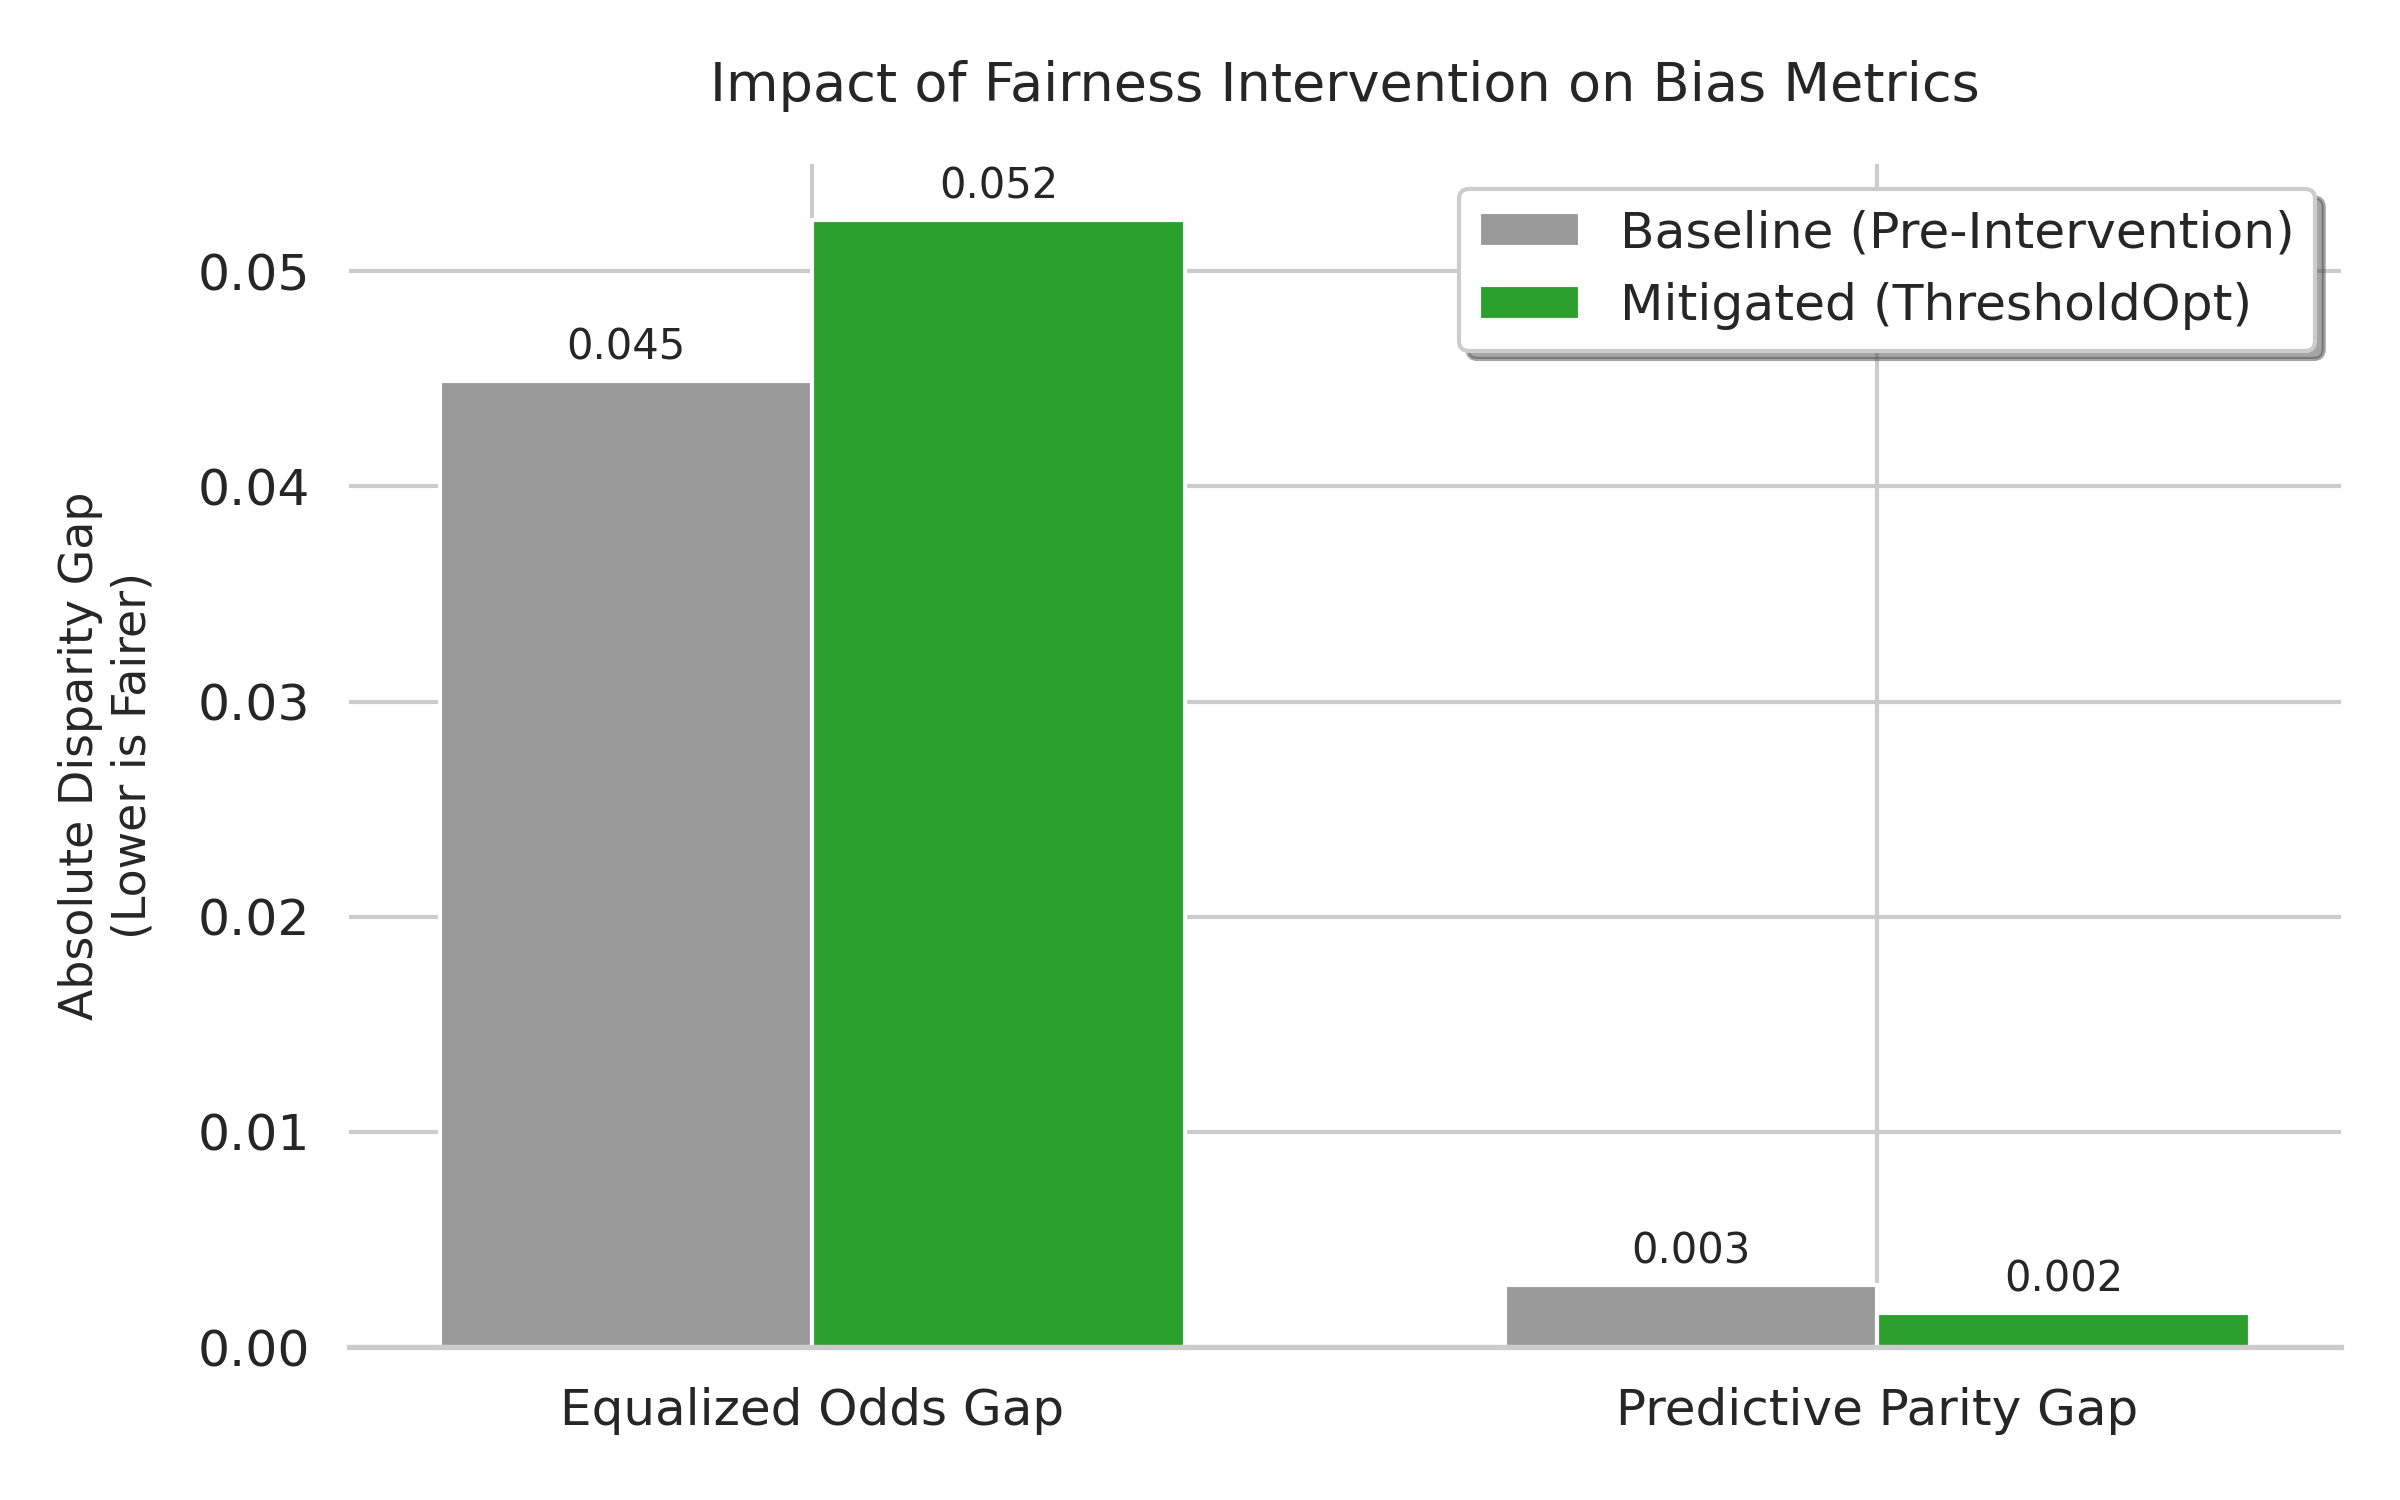
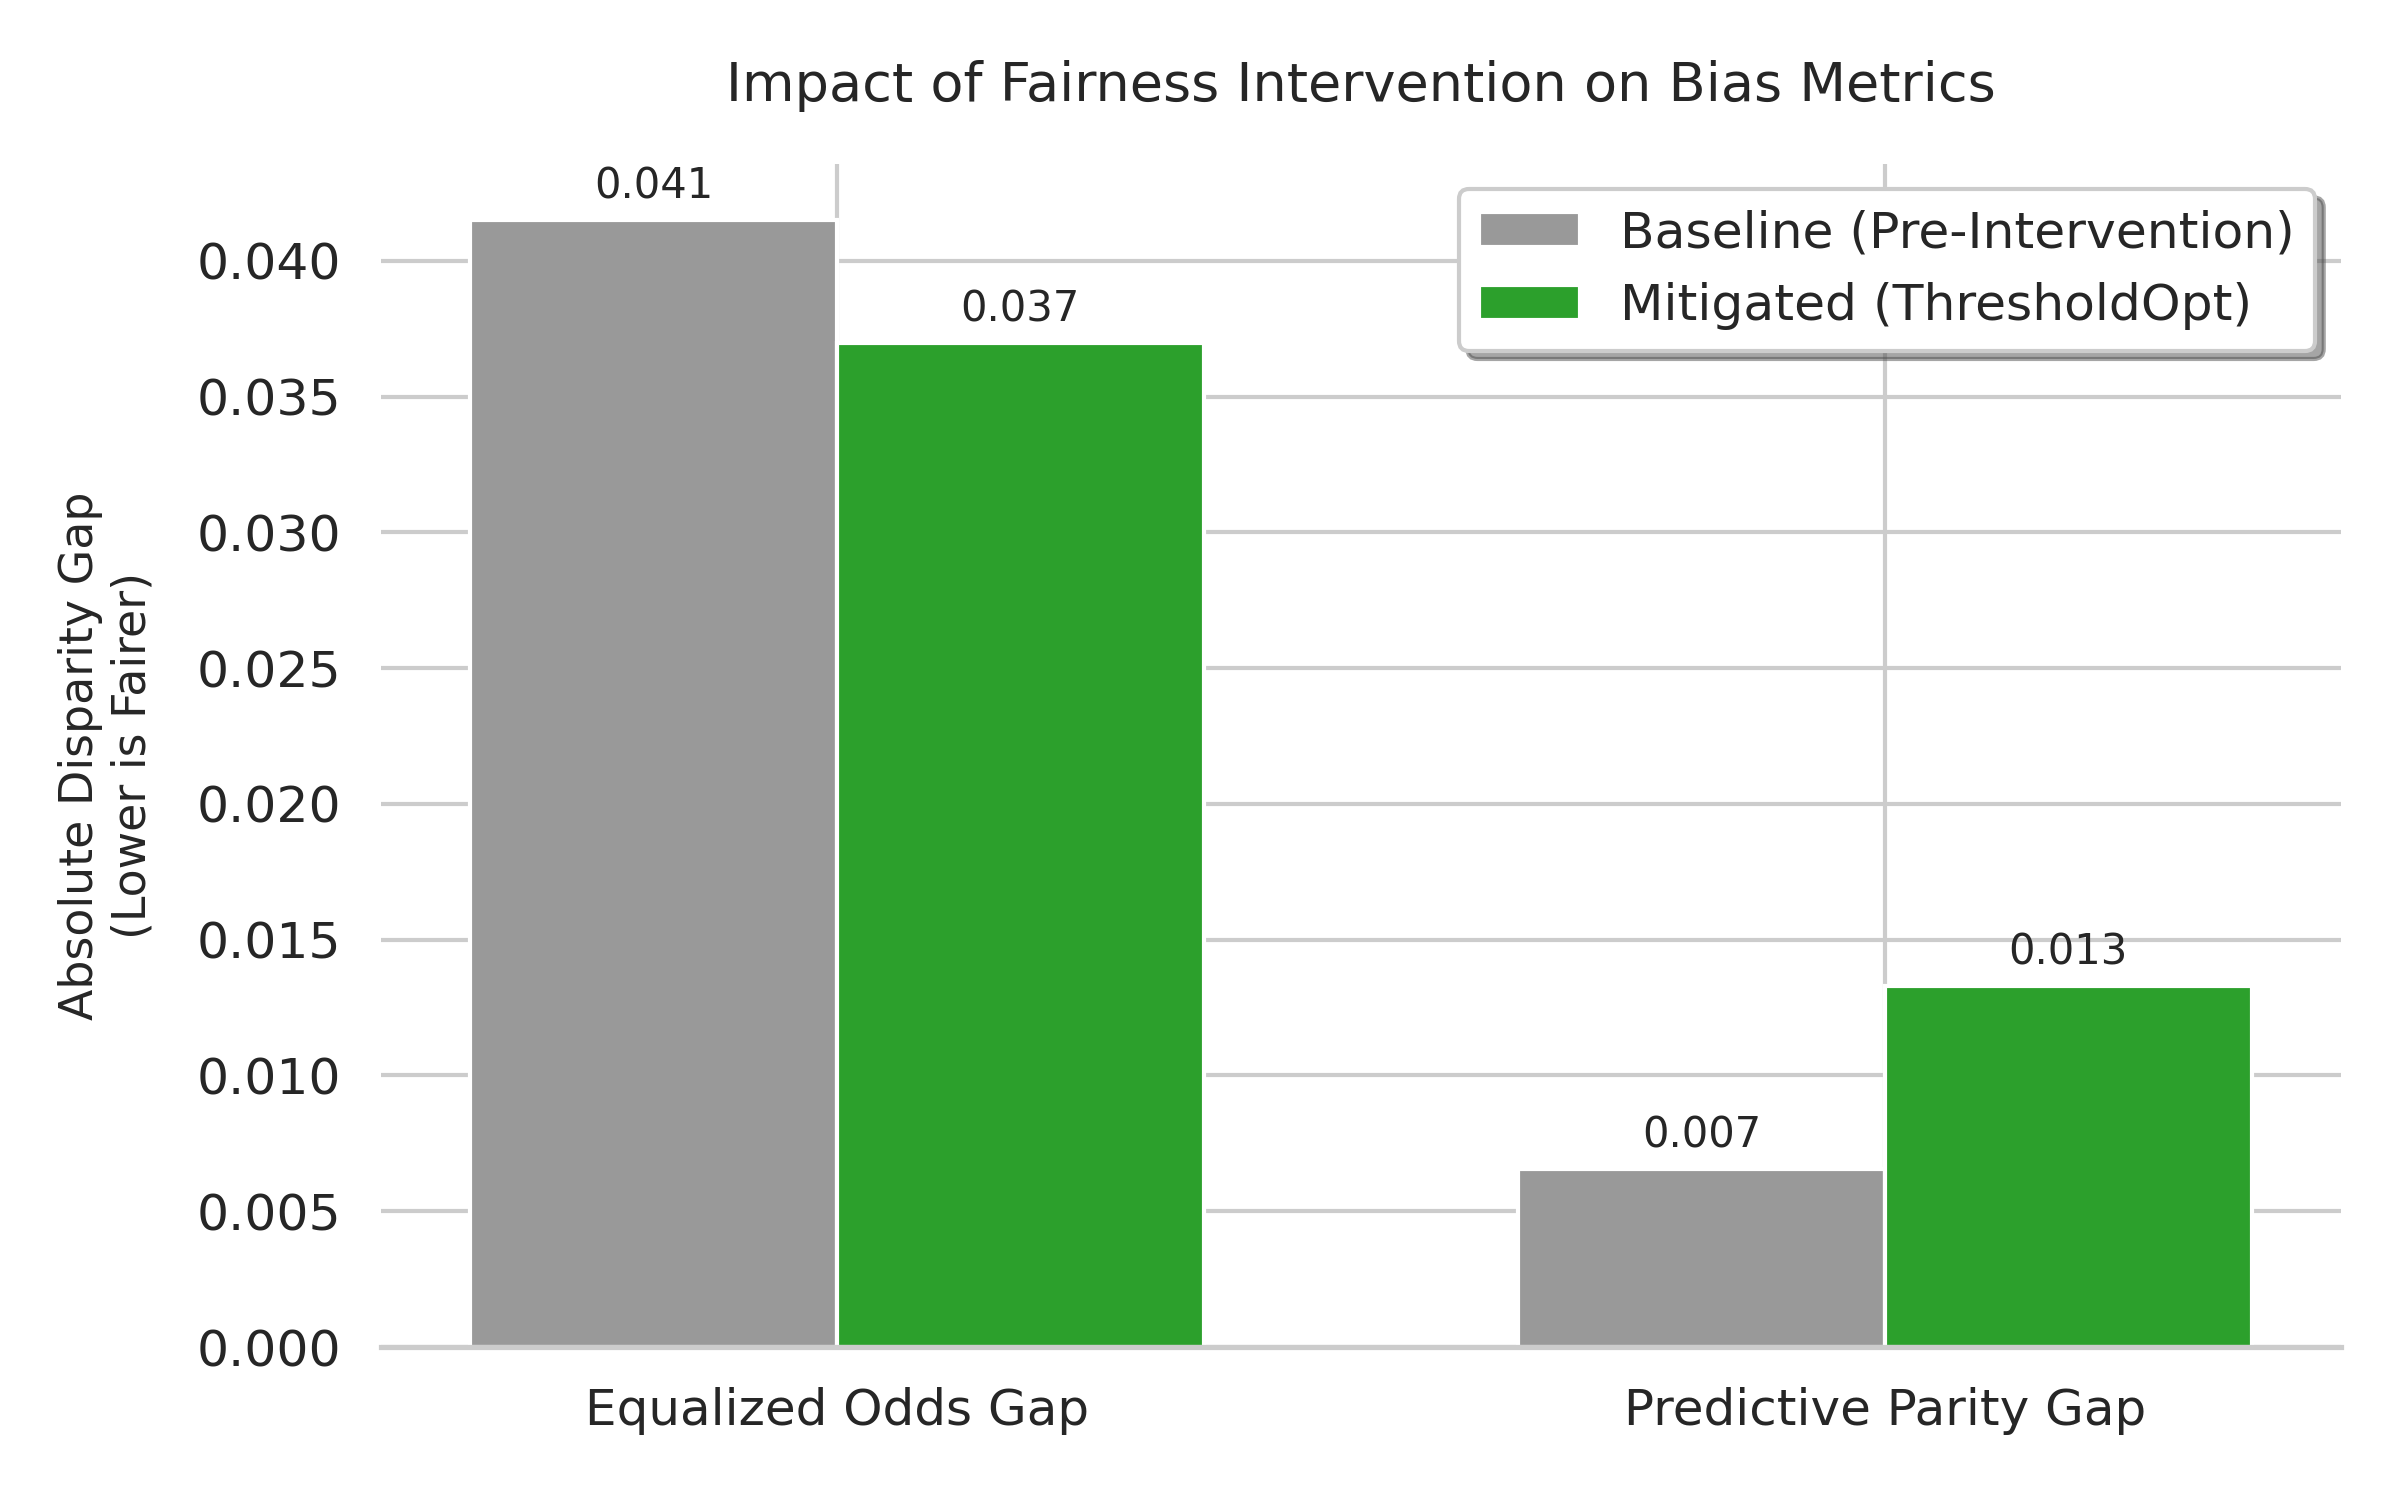
Added validation split and recalculated the results

diff --git a/src/models/preprocessing.py b/src/models/preprocessing.py
@@ -78,34 +78,49 @@ def preprocess_dataset(data: pd.DataFrame) -> pd.DataFrame:
     return df
 
 
+from sklearn.model_selection import train_test_split
+
 def split_dataset(
     df: pd.DataFrame,
-    test_size: float = TEST_SIZE,
+    test_size: float = 0.2,
+    val_size: float = 0.2,
     random_state: int = RANDOM_STATE,
 ):
-    """Split into train/test, returning features, labels, and gender arrays.
+    """Split into train/val/test, returning features, labels, and gender arrays.
 
-    Returns
-    -------
-    X_train, X_test : pd.DataFrame
-        Feature matrices (gender is kept as a feature for the model).
-    y_train, y_test : pd.Series
-        Binary target (cardio).
-    gender_train, gender_test : pd.Series
-        Gender column aligned with train/test rows for fairness evaluation.
+    val_size is the fraction of the remaining train portion used for validation.
+    For example: test_size=0.2, val_size=0.2 -> 64/16/20 train/val/test.
     """
     y = df["cardio"]
     gender = df["gender"]
     X = df.drop(columns=["cardio"])
 
-    X_train, X_test, y_train, y_test, gender_train, gender_test = train_test_split(
+    # First split: train+val vs test
+    X_trainval, X_test, y_trainval, y_test, gender_trainval, gender_test = train_test_split(
         X, y, gender,
         test_size=test_size,
         random_state=random_state,
         stratify=y,
     )
 
-    print(f"[preprocessing] Train: {len(X_train)} | Test: {len(X_test)}")
-    print(f"[preprocessing] Gender distribution (test) — "
-          f"Female: {(gender_test == 1).sum()}, Male: {(gender_test == 2).sum()}")
-    return X_train, X_test, y_train, y_test, gender_train, gender_test
+    # Second split: train vs val
+    X_train, X_val, y_train, y_val, gender_train, gender_val = train_test_split(
+        X_trainval, y_trainval, gender_trainval,
+        test_size=val_size,
+        random_state=random_state,
+        stratify=y_trainval,
+    )
+
+    print(
+        f"[preprocessing] Train: {len(X_train)} | Val: {len(X_val)} | Test: {len(X_test)}"
+    )
+    print(
+        f"[preprocessing] Gender distribution (test) — "
+        f"Female: {(gender_test == 1).sum()}, Male: {(gender_test == 2).sum()}"
+    )
+
+    return (
+        X_train, X_val, X_test,
+        y_train, y_val, y_test,
+        gender_train, gender_val, gender_test,
+    )

diff --git a/src/fairness/run_fairness.py b/src/fairness/run_fairness.py
@@ -35,7 +35,11 @@ def run_fairness_pipeline():
     print("\n[pipeline] STEP 1: DATA LOADING & PREPROCESSING")
     data = load_dataset(Path("data/cardio_train.csv"))
     data = preprocess_dataset(data)
-    X_train, X_test, y_train, y_test, gender_train, gender_test = split_dataset(data)
+    (
+        X_train, X_val, X_test,
+        y_train, y_val, y_test,
+        gender_train, gender_val, gender_test
+    ) = split_dataset(data)
 
     print("\n[pipeline] STEP 2: MODEL TRAINING / LOADING")
 
@@ -56,7 +60,8 @@ def run_fairness_pipeline():
 
     print("\n[pipeline] STEP 4a: FAIRNESS INTERVENTION (Equalized Odds)")
     y_pred_mitigated, _ = apply_threshold_optimization(
-        model, X_train, y_train, gender_train,
+        model,
+        X_val, y_val, gender_val,   # fit thresholds here
         X_test, y_test, gender_test,
         constraint="equalized_odds",
     )
@@ -70,7 +75,8 @@ def run_fairness_pipeline():
 
     print("\n[pipeline] STEP 4b: FAIRNESS INTERVENTION (TPR Parity)")
     y_pred_mitigated, _ = apply_threshold_optimization(
-        model, X_train, y_train, gender_train,
+        model,
+        X_val, y_val, gender_val,   # fit thresholds here
         X_test, y_test, gender_test,
         constraint="true_positive_rate_parity",
     )

diff --git a/src/xai/run_xai.py b/src/xai/run_xai.py
@@ -40,8 +40,11 @@ def run_xai_pipeline():
     print("\n[pipeline] STEP 1: DATA LOADING & MODEL TRAINING/LOADING")
     data = load_dataset(Path("data/cardio_train.csv"))
     data = preprocess_dataset(data)
-    X_train, X_test, y_train, y_test, gender_train, gender_test = split_dataset(data)
-    
+    (
+        X_train, X_val, X_test,
+        y_train, y_val, y_test,
+        gender_train, gender_val, gender_test
+    ) = split_dataset(data)
     model_path = MODELS_DIR / "best_xgboost.joblib"
 
     if model_path.exists():
